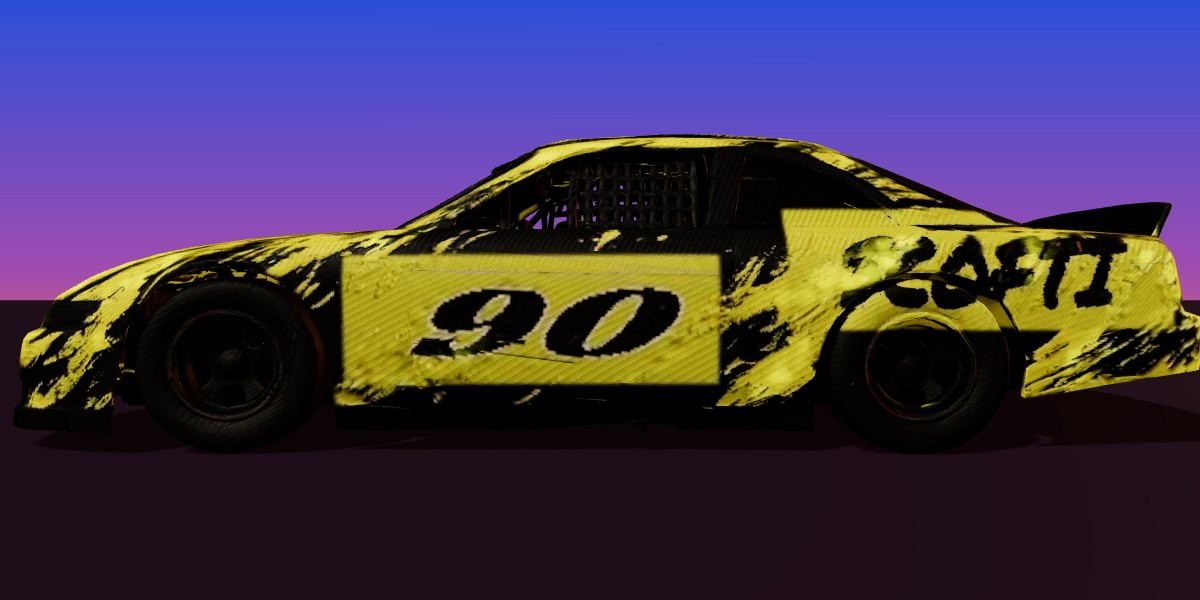
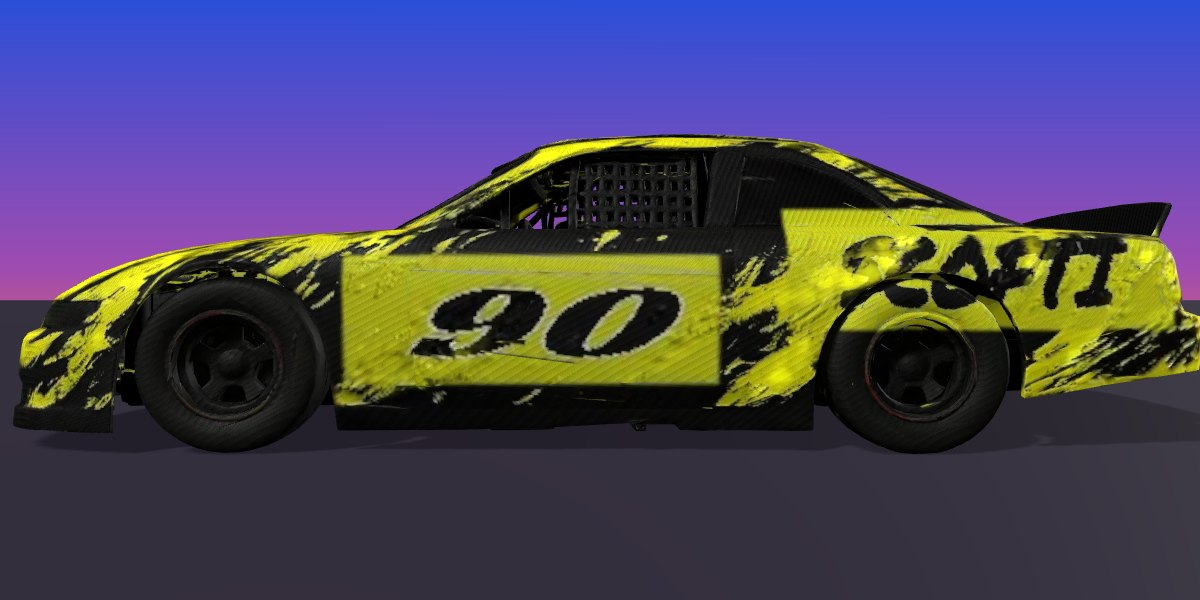
Car pictures: the reflection in the floor loses all the key green (it was going dark green under a black car) and takes the paint's own hue at the floor's brightness; the slick's pictures retaken in white light with no floor glow, and its own yellow color band, so it paints cleanly

diff --git a/src/paint.ts b/src/paint.ts
@@ -181,15 +181,26 @@ function recolour(data: ImageData, paint: Paint, key: KeyHue, skip: Rect[], numb
     // how much this pixel is the car's paint: on-hue, coloured enough, not blown out or black.
     // Black reaches further into the dark, muddy edges so no green fringe is left behind.
     const width = dark ? key.width * 1.5 : key.width;
-    const weight =
-      (1 - smooth(width * 0.6, width, dh)) *
-      (dark ? smooth(0.1, 0.25, s) : smooth(0.18, 0.4, s)) *
-      (dark ? smooth(0.02, 0.06, l) : smooth(0.06, 0.16, l)) *
-      (1 - smooth(0.92, 0.99, l));
+    // under the floor line: the car's reflection in the wet floor. Paler and duller than the car, so
+    // the car's thresholds only half-caught it and left dark green patches on a black car (Michael,
+    // 2026-10-17): here any hint of the key hue goes, and the floor keeps its own brightness
+    const fl = floor?.[x] ?? -1;
+    const reflection = !camo && fl >= 0 && y > fl;
+    const weight = reflection
+      ? (1 - smooth(width * 0.6, width, dh)) * smooth(0.04, 0.12, s)
+      : (1 - smooth(width * 0.6, width, dh)) *
+        (dark ? smooth(0.1, 0.25, s) : smooth(0.18, 0.4, s)) *
+        (dark ? smooth(0.02, 0.06, l) : smooth(0.06, 0.16, l)) *
+        (1 - smooth(0.92, 0.99, l));
     if (weight <= 0) continue;
     const shade = l / REF_L;
     let r: number, gg: number, b: number;
-    if (camo) {
+    if (reflection) {
+      // the paint's hue at the floor's own lightness: a black car reflects as a dark grey sheen, a red
+      // one as red, never lime
+      const [th, ts, tl] = paint.hsl!;
+      [r, gg, b] = hslToRgb(th, ts, dark ? l * 0.6 : Math.min(1, (l + tl) / 2));
+    } else if (camo) {
       // in the reflection, the camo is the car's own, upside down (Michael, 2026-10-13: the floor
       // under a camo car was getting its own camo)
       const f = floor?.[x] ?? -1;

diff --git a/tools/carPhoto.ts b/tools/carPhoto.ts
@@ -15,7 +15,8 @@ const renderer = new THREE.WebGLRenderer({ antialias: true, preserveDrawingBuffe
 renderer.setPixelRatio(1);
 renderer.setSize(innerWidth, innerHeight);
 renderer.outputColorSpace = THREE.SRGBColorSpace;
-renderer.toneMapping = THREE.ACESFilmicToneMapping;
+// no filmic tone mapping: it dulled the lime, and the game's recolor only half caught the paint
+renderer.toneMapping = THREE.NoToneMapping;
 renderer.shadowMap.enabled = true;
 document.body.append(renderer.domElement);
 
@@ -41,17 +42,18 @@ const envTex = skyTex.clone();
 envTex.mapping = THREE.EquirectangularReflectionMapping;
 scene.environment = pmrem.fromEquirectangular(envTex).texture;
 
-scene.add(new THREE.HemisphereLight("#ffd9b0", "#3a2a50", 1.6));
-const sun = new THREE.DirectionalLight("#fff1dc", 2.4);
+// white light, so the paint stays the one yellow the game recolors (warm light pushed it orange)
+scene.add(new THREE.HemisphereLight("#ffffff", "#40384a", 1.7));
+const sun = new THREE.DirectionalLight("#ffffff", 2.2);
 sun.position.set(-4, 6, 5);
 sun.castShadow = true;
 scene.add(sun);
-const rim = new THREE.DirectionalLight("#ff9a50", 1.2);
+const rim = new THREE.DirectionalLight("#ffffff", 0.9);
 rim.position.set(6, 2, -4);
 scene.add(rim);
 
 // a glossy dark floor, like the wet studio floor in the others
-const floor = new THREE.Mesh(new THREE.PlaneGeometry(60, 60), new THREE.MeshStandardMaterial({ color: "#3a2c48", roughness: 0.38, metalness: 0.35 }));
+const floor = new THREE.Mesh(new THREE.PlaneGeometry(60, 60), new THREE.MeshStandardMaterial({ color: "#2e2838", roughness: 0.6, metalness: 0 }));
 floor.rotation.x = -Math.PI / 2;
 floor.receiveShadow = true;
 scene.add(floor);

diff --git a/src/roster.ts b/src/roster.ts
@@ -120,7 +120,8 @@ export const CARS: Car[] = [
     name: "the slick",
     line: "Smooth, round and slippery. Built to draft.",
     accent: "#d9dde3",
-    key: LIME,
+    // its splatter came out a yellower lime than the others (hue about 60)
+    key: { hue: 60, width: 24 },
     paint: "black",
     views: [0, 1, 2, 4],
   },
